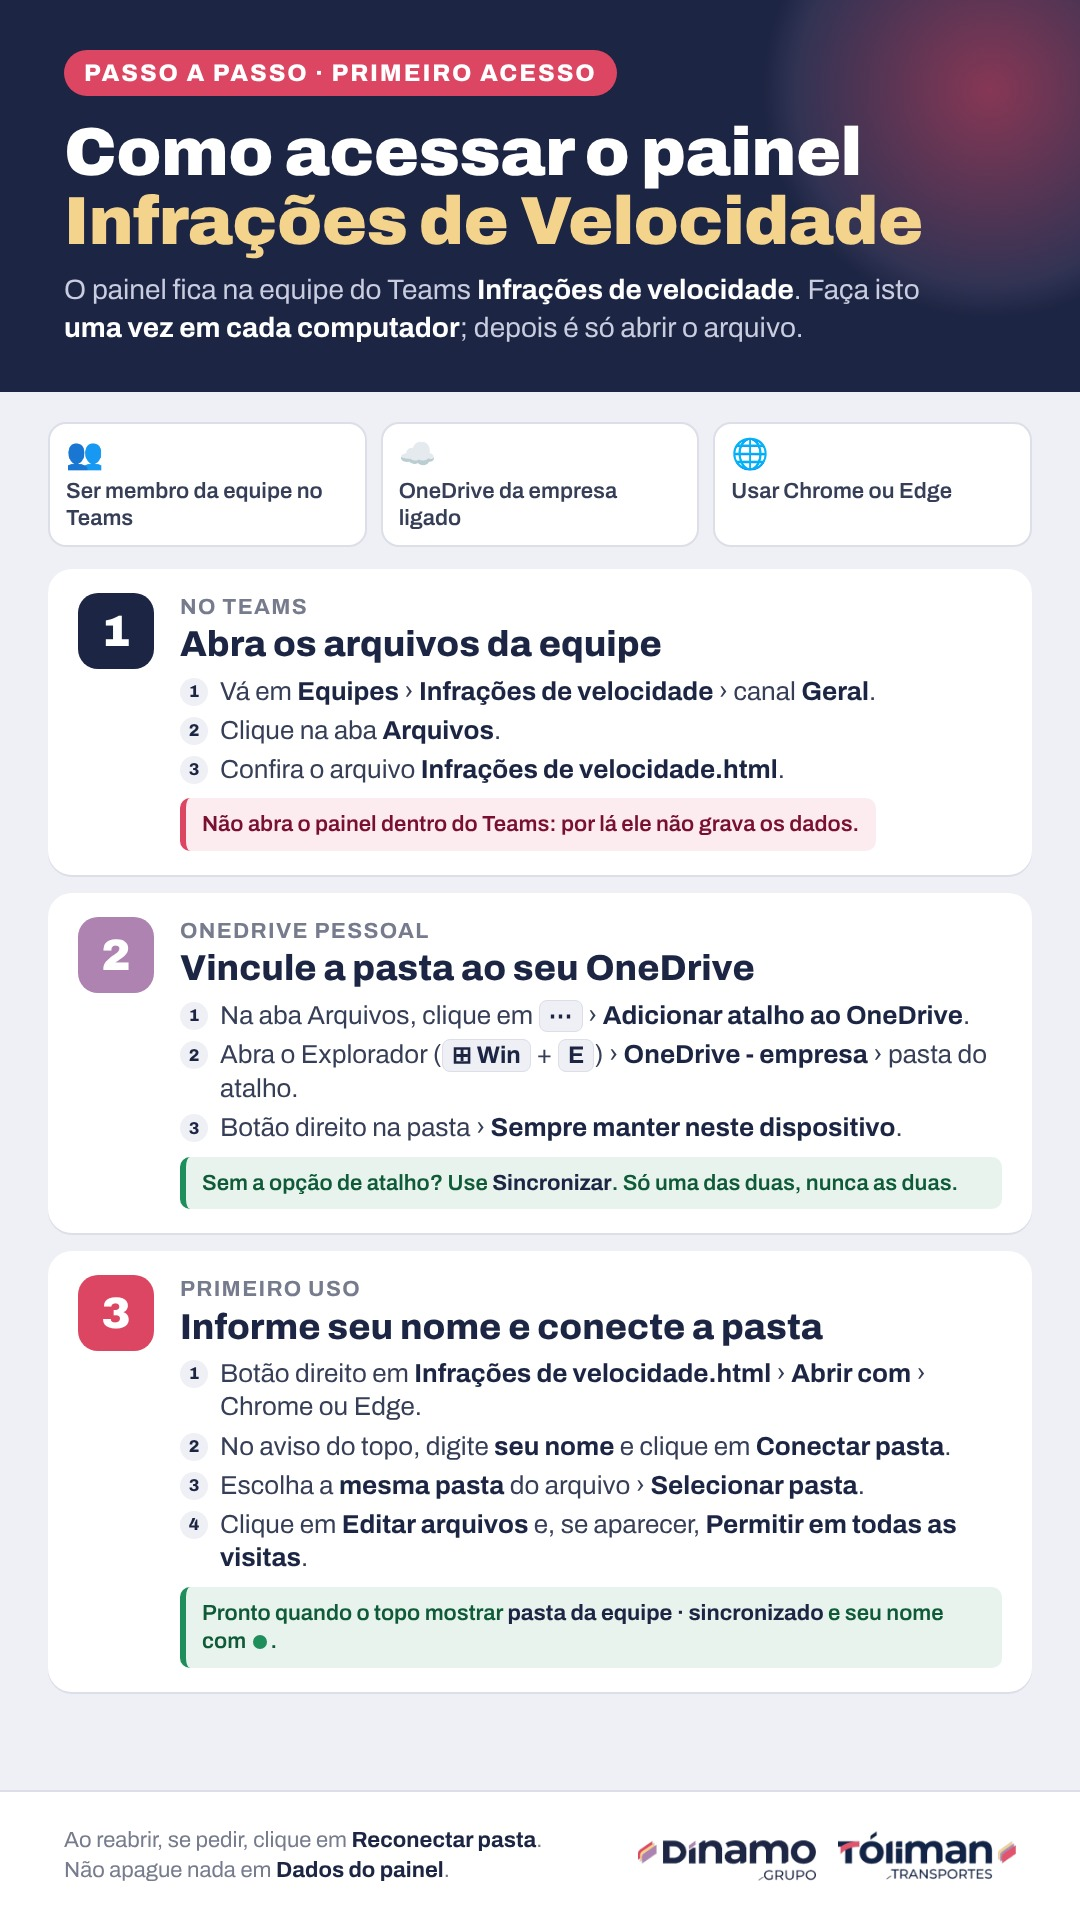
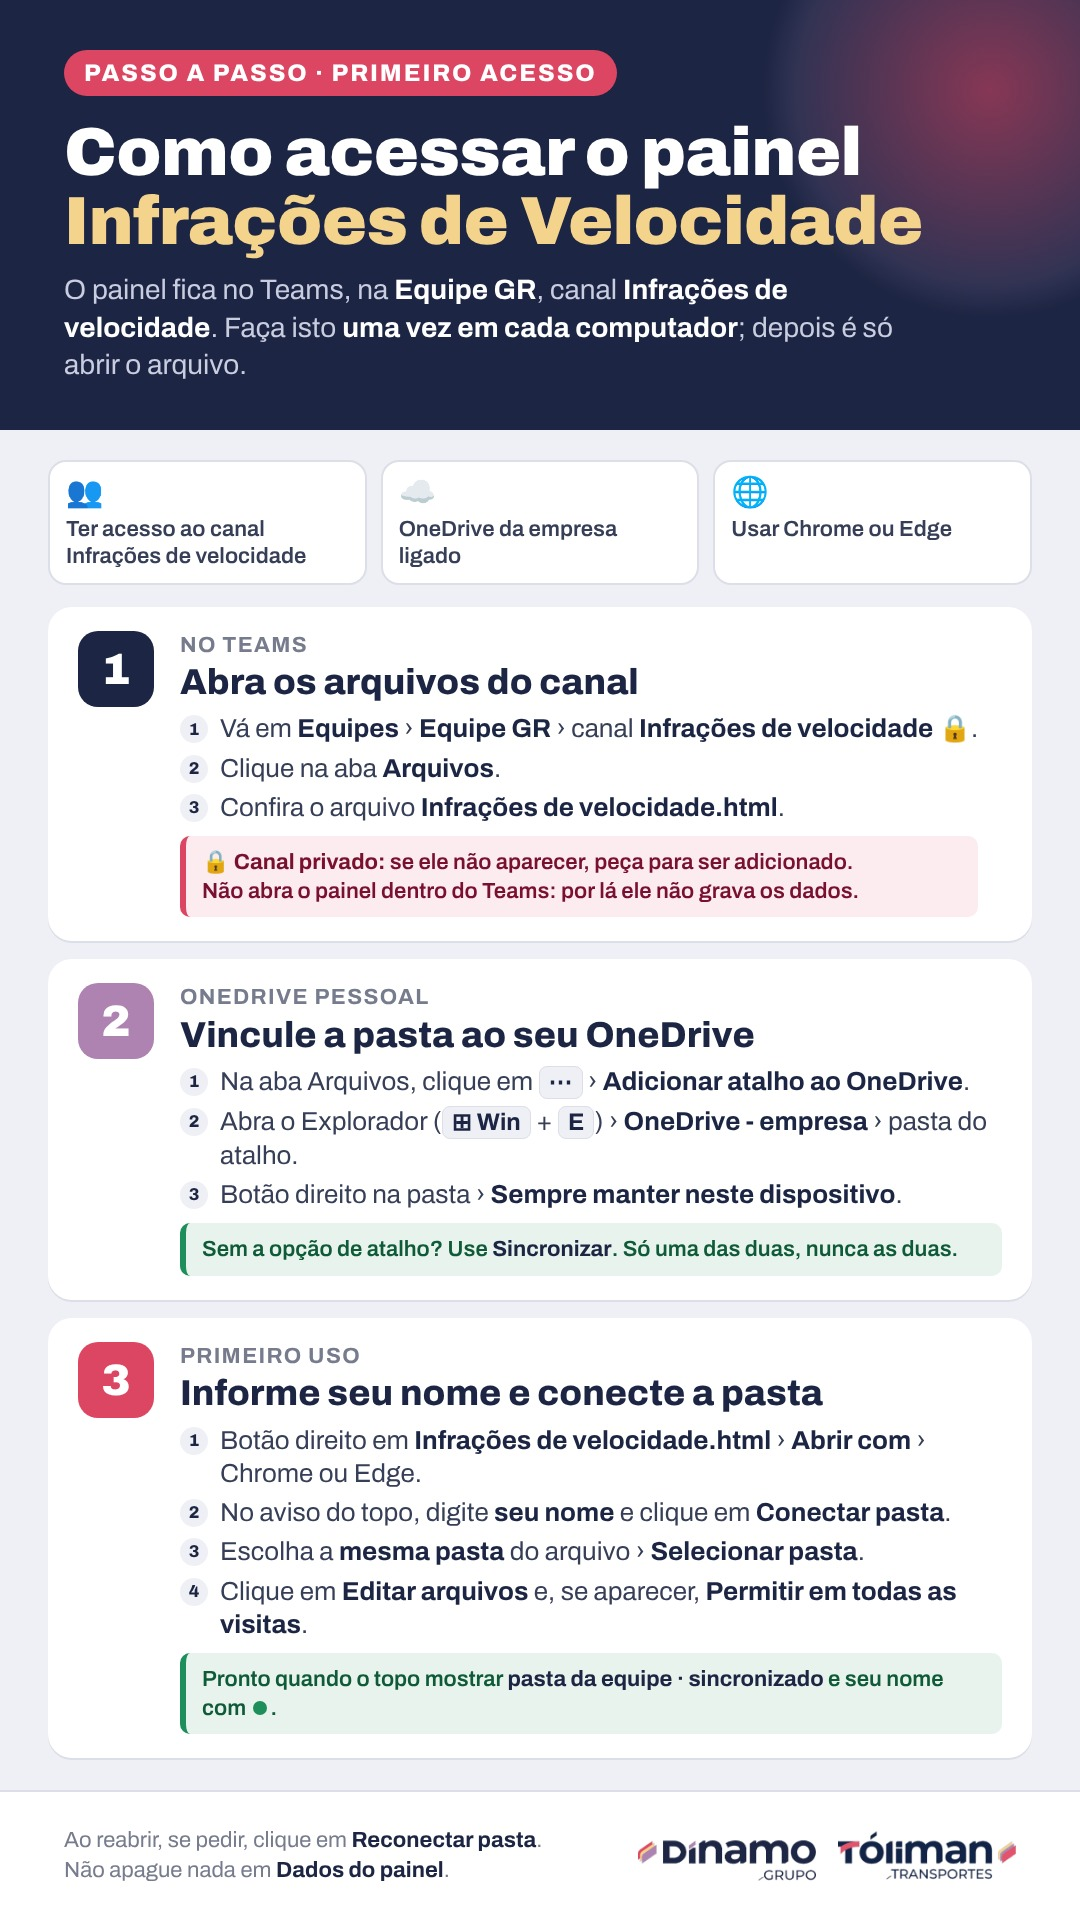
Post: local certo do painel (Equipe GR, canal privado Infrações de velocidade)
Claude-Session: https://claude.ai/code/session_01MA4dfNn5tcmLE7JN9LyZB7

Changed region(s): [[0.0, 0.125, 1.0, 0.9062]]

diff --git a/docs/posts/post-acesso-teams.html b/docs/posts/post-acesso-teams.html
@@ -38,23 +38,23 @@ b{color:var(--ink);font-weight:700}
 <div class="top">
   <span class="tag">Passo a passo · primeiro acesso</span>
   <h1>Como acessar o painel<br><span>Infrações de Velocidade</span></h1>
-  <p class="sub">O painel fica na equipe do Teams <b>Infrações de velocidade</b>. Faça isto <b>uma vez em cada computador</b>; depois é só abrir o arquivo.</p>
+  <p class="sub">O painel fica no Teams, na <b>Equipe GR</b>, canal <b>Infrações de velocidade</b>. Faça isto <b>uma vez em cada computador</b>; depois é só abrir o arquivo.</p>
 </div>
 <div class="body">
   <div class="pre">
-    <div><i>👥</i>Ser membro da equipe no Teams</div>
+    <div><i>👥</i>Ter acesso ao canal Infrações de velocidade</div>
     <div><i>☁</i>OneDrive da empresa ligado</div>
     <div><i>🌐</i>Usar Chrome ou Edge</div>
   </div>
 
   <div class="step s1"><div class="n">1</div><div>
-    <h2><small>No Teams</small>Abra os arquivos da equipe</h2>
+    <h2><small>No Teams</small>Abra os arquivos do canal</h2>
     <ol>
-      <li>Vá em <b>Equipes</b> › <b>Infrações de velocidade</b> › canal <b>Geral</b>.</li>
+      <li>Vá em <b>Equipes</b> › <b>Equipe GR</b> › canal <b>Infrações de velocidade</b> 🔒.</li>
       <li>Clique na aba <b>Arquivos</b>.</li>
       <li>Confira o arquivo <b>Infrações de velocidade.html</b>.</li>
     </ol>
-    <div class="warn">Não abra o painel dentro do Teams: por lá ele não grava os dados.</div>
+    <div class="warn"><b style="color:inherit">🔒 Canal privado:</b> se ele não aparecer, peça para ser adicionado.<br>Não abra o painel dentro do Teams: por lá ele não grava os dados.</div>
   </div></div>
 
   <div class="step s2"><div class="n">2</div><div>

diff --git a/docs/HANDOFF.md b/docs/HANDOFF.md
@@ -8,7 +8,7 @@ Painel HTML de um arquivo só (Grupo Dínamo / Tóliman Transportes) que lê as 
 
 - **Dono:** Eduardo (Laudino). Fala português e prefere ser entrevistado antes de qualquer suposição. Pede PR + merge explicitamente quando quer.
 - **Visual:** segue o artefato "Produtividade de Motoristas · Grupo Dínamo" (cores, logos). Para páginas novas, existe a skill `anthropic-skills:layout-padrao`.
-- **Onde roda:** o `Infrações de velocidade.html` fica na pasta da equipe do Teams **Infrações de velocidade** (SharePoint). Cada pessoa adiciona o atalho no OneDrive e abre o arquivo no Chrome ou Edge.
+- **Onde roda:** o `Infrações de velocidade.html` fica no Teams na **Equipe GR**, canal privado **Infrações de velocidade** (SharePoint do canal), aba Arquivos. Cada pessoa adiciona o atalho no OneDrive e abre o arquivo no Chrome ou Edge.
 
 ## Arquivos
 
@@ -87,10 +87,10 @@ Painel HTML de um arquivo só (Grupo Dínamo / Tóliman Transportes) que lê as 
 ## Pendências e próximos passos
 
 - [ ] Confirmar com o usuário o primeiro uso real na pasta do OneDrive: conectar, reabrir (o pedido de "Reconectar pasta" funciona?), sincronização entre duas pessoas e presença online.
-- [ ] Se a pasta do HTML no Teams não estiver direto em "Arquivos" (por exemplo, numa subpasta "Sistema"), ajustar o passo 1 do guia e o post.
+- [ ] O guia em PDF ainda fala em "equipe Infrações de velocidade" e canal Geral; o local certo é Equipe GR › canal privado Infrações de velocidade (o post já foi corrigido).
 - [ ] Decidir se o artefato antigo do claude.ai (modo `db`) deve ser apagado.
 - O post de divulgação (JPEG 1080×1920 "Infrações de Velocidade mudou de lugar!") foi entregue no chat e não está no repositório. O assunto e a descrição para o Teams também foram passados no chat.
-- Post "Como acessar o painel" (JPEG 1080×1920, 3 passos: Teams › atalho no OneDrive › nome e Conectar pasta): `docs/posts/Post - Acesso ao painel pelo Teams.jpg`, fonte em `docs/posts/post-acesso-teams.html` (print com Playwright em 1080×1920). O passo 1 supõe o arquivo direto em Arquivos do canal Geral.
+- Post "Como acessar o painel" (JPEG 1080×1920, 3 passos: Teams › atalho no OneDrive › nome e Conectar pasta): `docs/posts/Post - Acesso ao painel pelo Teams.jpg`, fonte em `docs/posts/post-acesso-teams.html` (print com Playwright em 1080×1920). O passo 1 usa Equipe GR › canal privado Infrações de velocidade › Arquivos.
 
 ## Fluxo de trabalho combinado
 
